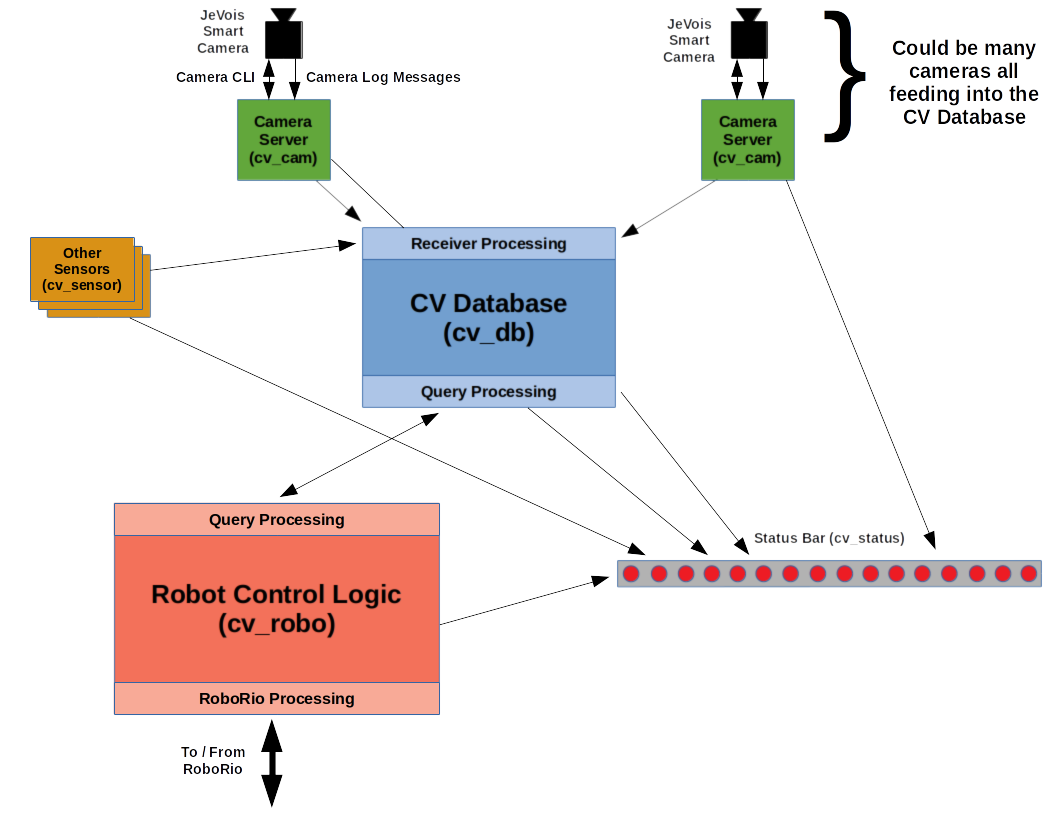
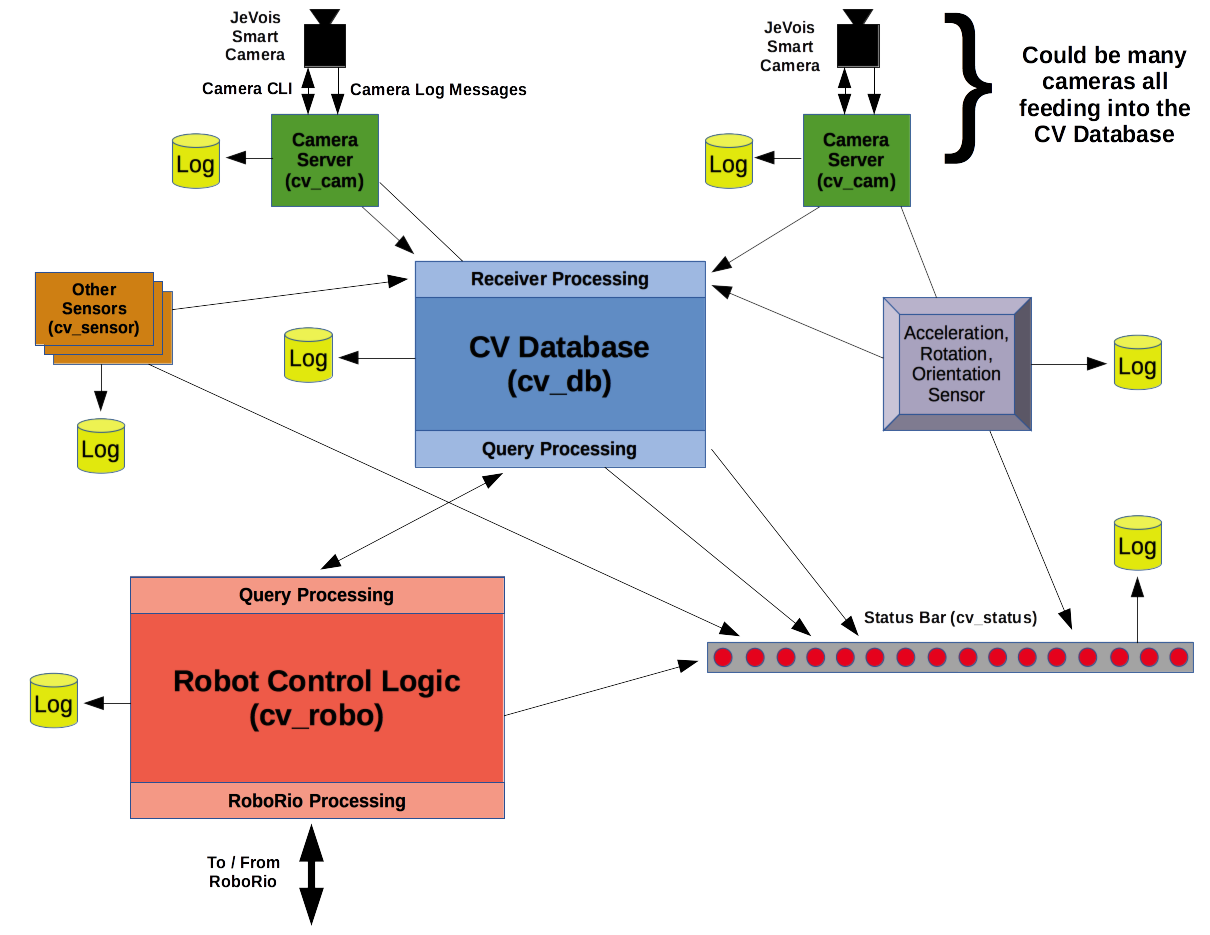
Updated architecture diagram and doc
* Added logging to the diagram
* Added thoughts about how to deal with autonomous system during practices and competitions and how to get the most out of it

diff --git a/README.md b/README.md
@@ -39,9 +39,21 @@ The design does not preclude having more sensor servers which can monitor indivi
 
 Each sensor type can have its value stored in same time-tracked manner as the cameras making the most recent values available to the Robot Driver module for consideration in cotrolling the robot.  The format of the data from each sensor type can be defined at the time that sensor is incorporated taking into account the type and richness of the information available from that sensor type.  Each data record will need to include the appropriate sensor identification information so that each specific sensor instance can be mapped into the physical space surrounding the robot.
 
+The diagram includes a 9-way combination sensor including:
+
+* 3-axis accelerometer
+
+* 3-axis magnetometer
+
+* 3 axis rotation
+
+This information will be logged in the same manner as any other sensor with the hope of being able to recover actual robot movments and forces post-practive and post-competition.
+
+It may also send measurement to cv_db to make them available to the robot controlling logic.
+
 #### Database
 
-The Cyborg-Vision Database (cv_db) gets readings from various sensor servers and saves their values.  In addition to saving the values, it also regularly "prunes" the database to remove older values (typically referred to as a TTL, or **T**ime-**t**o-**L**ive).  Whenever it finds values older than the TTL limit, it removes these from the database.  Think of it terms of keeping only the most recent sensor history; who cares what a camera saw 30 seconds ago?  The robot has probably moved, turned, or something else has changed; we mostly want to know what's happening right now (or at least within only the last few seconds).
+The Cyborg-Vision Database (cv_db) gets readings from various sensor servers and saves their values.  In addition to saving the values, it also regularly "prunes" the database to remove older values (typically referred to as a TTL, or **T**ime-**t**o-**L**ive).  Whenever it finds values older than the TTL limit, it removes these from the database.  Think of it terms of keeping only the most recent sensor history; who cares what a camera saw 30 seconds ago?  The robot has probably moved, turned, or something else has changed; we mostly want to know what's happening right now (or at least within only the last few seconds).  This database is essentially an enhanced "Last Value" cache ("Last Few Values" essentially) and will be retained fully in memory (so it will be lost when the robot powers down).  It will however log all incoming data messages and queries for later reference.
 
 Processes that want to find out about the conditions around the robot (whether visual, ranging, etc.) can query cv_db and get the status of a specific sensor, a set of sensors, or potentially even an average sensor reading across the values available.
 
@@ -97,6 +109,14 @@ All of this information would need to be timestamped so it can be later correlat
 
 The logging and tracing information should be stored as text rather than binary to allow a programmer to quickly be able to scan through and understand the output without much additional processing.  This doesn't mean that we might not want to create other tools to help us correlate or otherwise visualize the vision-processing logs to better understand how it is operating.
 
+There are a few key considerations to make this work well:
+
+* We need make sure that the log survives the robot powering off at the end of the competition (unless we can maintain power to the hardware supporting the log-supporting device from before the practice or competiion starts until we access the log)
+
+* If we will lose power, we need to ensure that the log records are not damaged by the log-supporting device losing power.  We can take some steps to try and minimize the chances of this and try to make things record log information as synchronously as we can.
+
+We need to extend this to the Robo Rio-based control code as well.  If possible, we should timestamp and log each command input from the human operators for later review and use as test data for a further robot testing and debugging.
+
 #### Visual Tracing
 
 In addition to logging vision-processing statuses, events, and activity in the log files, it might be useful to include a set of visible indicators on the robot in order to give real-time information about what the vision-processing system is doing at that moment in time.  The Raspberry PI B+ platform provides 20+ GPIO pins (**G**eneral **P**urpose **I**nput/**O**utput) which could be used to drive a series of LEDs on the robot indicating information about what is happening.
@@ -105,17 +125,31 @@ Each major component could be associated with an appropriate set of LEDs that co
 
 * That module has started and is operating
 
-* 
+* Specific processing indications like certain read, write, or computational events
 
-* 
-
-* 
-
-*
+* Heartbeats indicating some component is still running.
 
 #### Physical Recording
 
 During testing and competition activities, it would be very useful to record the robot from several different locations to capture how it physically controls the robot.  If possible, this should be done in a manner that captures the robot in slow motion for more detailed analysis of the physical movements of the robot as well as capturing any Visual Tracing indications.
+
+#### Post-practice and post-competition procedures
+
+We should include as part of the post practice or competition checklist the task of downloading, saving, and uploading the logs.  This will make sure that we have them available and saved and also allow a remote team member to review and work with the on-site team members to potentially help understand a problem or other anomoly.
+
+This probably should be one of the very first things we do even before fixing a broken or damaged robot; it will only take a few moments (we'll need to work out our procedures to they'll be fast, safe for the logged data, and well documented).
+
+The example is a Formula One racing team; data is one of the most valuable to things to get from the car each time it goes out and gets taken care of before anyone even starts wrenching on it.
+
+#### General Autonomous Hardware Philosophy
+
+There will be a lot of moving parts here - software and hardware.  To give us the ability to have reasonable spares on hand and the ability to put those spares into play quickly and reliably, we need to take a little care as to how the system gets configured and connected.  Ideally we will want a system implementation that will allow us to setup and validate major devices back at the shop and be able to replace a failing component with no or minimal (and super clear and super documented) configuration.
+
+If it takes a bunch of software programming or at worst, actual changes to the code for something, in order to get it configured, the likelyhood of an error or mistake under pressure goes *way* up.  Once we validate something, we need to be able to bag it and stash it as a spare without messing around with it any more than we absolutely have to.
+
+That said, we'll want to make sure that we bring the right equipment to be able to maintain and work on the autonomous components if needed during a competition.  In those sorts of high-pressure situations, we will need to have well documented and practiced procedures to make sure we stay in control, don't make things worse through not knowing what code something is running or what it's configuration should be, don't lose changes or improvements, and similar considerations.
+
+**At the end of the day, it's not just what you do but how you do it so that you can do it again - reliably and repeatably!**
 
 ## Key programming concepts to know to understand the code
 
